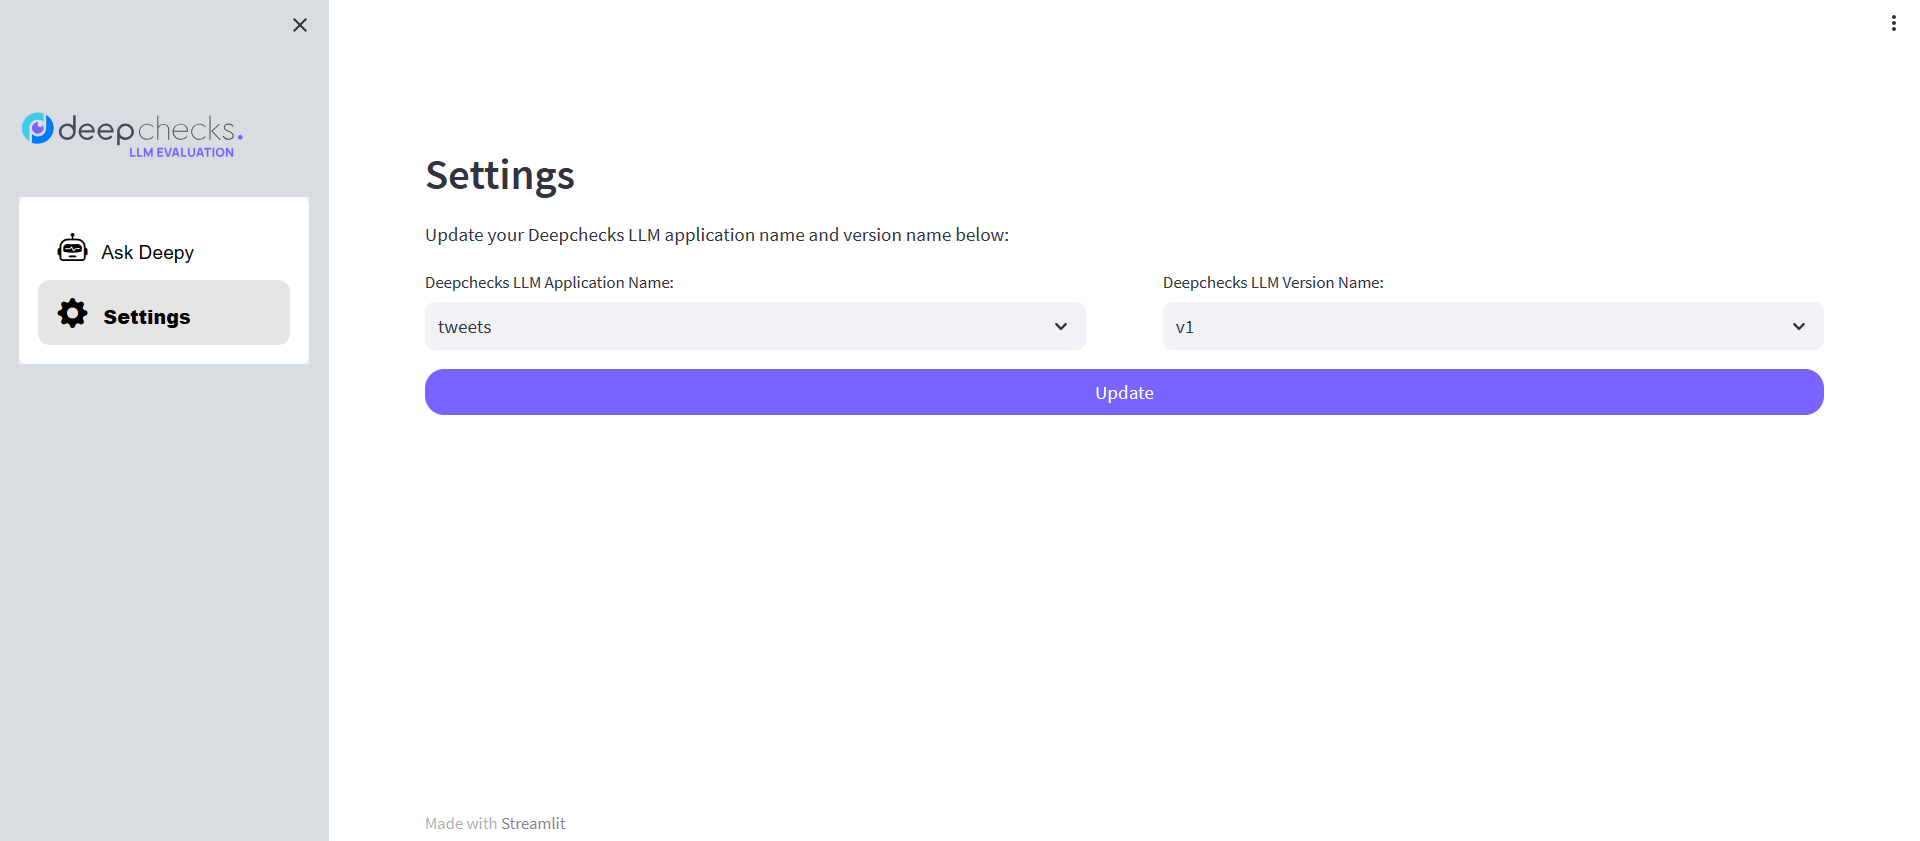
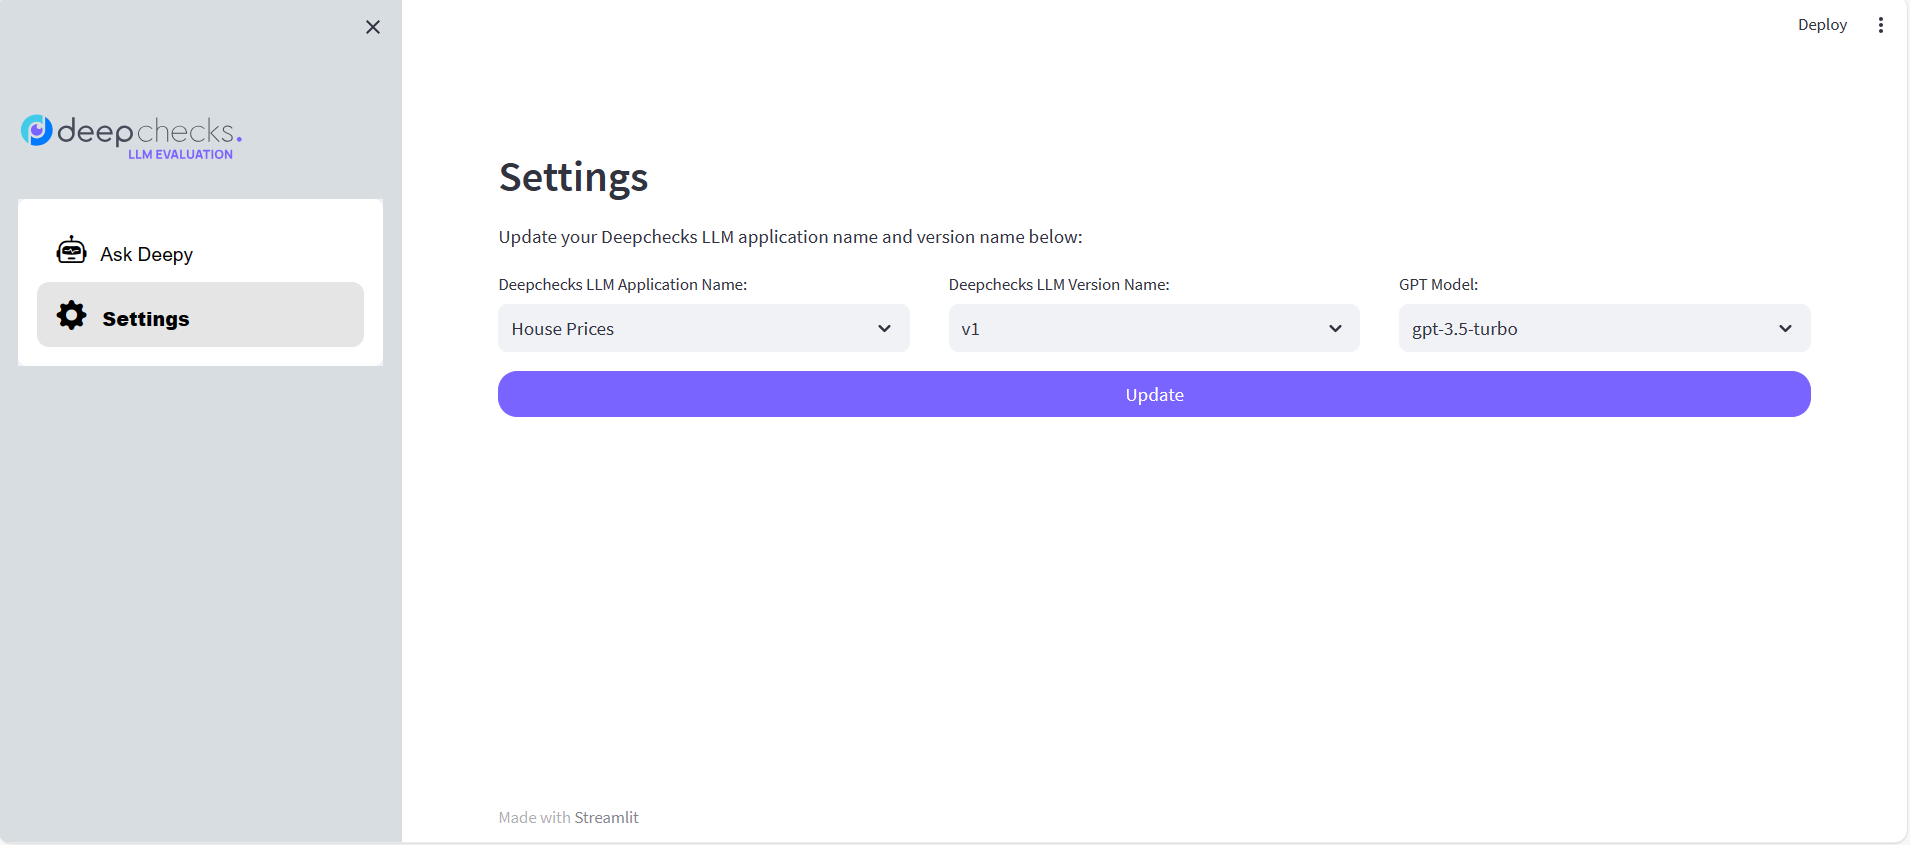
Fixes and added Readme

diff --git a/main.py b/main.py
@@ -5,11 +5,7 @@ from utils.general_utils import initialize_app, initialize_deepchecks_client, in
 from menu.deepy import create_ask_deepy_bot
 from menu.settings import create_settings
 from utils.api_call import fetch_application_names_with_versions
-import logging, coloredlogs
 
-
-logging.basicConfig(filename='./logs.txt', filemode='w', level=logging.DEBUG, force=True)
-coloredlogs.install(level='DEBUG')
 
 # Render the sidebar on the UI and add the styling to various components
 initialize_app()
@@ -23,12 +19,12 @@ deepchecks_llm_app_name = config['DEEPCHECKS_LLM_APP_NAME']
 deepchecks_llm_version_name = config['DEEPCHECKS_LLM_APP_VERSION_NAME']
 response = fetch_application_names_with_versions(config)
 
+if response['status_code'] != 200:
+    st.error({'status_code': response['status_code'], 'text': response['text'], 'solution': 'Make sure that your API keys are correct.'})
 
-if (deepchecks_llm_app_name not in list(response['application_details'].keys()) or deepchecks_llm_version_name not in response['application_details'][deepchecks_llm_app_name]) and st.session_state.current_page != 'Settings':
+elif (deepchecks_llm_app_name not in list(response['application_details'].keys()) or deepchecks_llm_version_name not in response['application_details'][deepchecks_llm_app_name]) and st.session_state.current_page != 'Settings':
     st.title('🦜🔗 Deepy Bot')
     st.error('Your Deepchecks LLM app name and version names are not correct. Please update it from the Settings section.')
-elif response['status_code'] != 200:
-    st.error({'status_code': response['status_code'], 'text': response['text'], 'solution': 'Make sure that your API keys are correct.'})
 else:
     if dc_client.api is None and st.session_state.current_page != 'Settings':
         initialize_deepchecks_client(config)
@@ -37,4 +33,4 @@ else:
         st.session_state.llm_response = ""
         create_settings(config, response['application_details'])
     else:
-        create_ask_deepy_bot()
+        create_ask_deepy_bot(config['GPT_MODEL'])

diff --git a/utils/llm_utils.py b/utils/llm_utils.py
@@ -11,7 +11,6 @@ def fetch_prompts_chatopenai(llm_response):
     second_prompt = text[second_prompt_start_index:  second_prompt_end_index]
     second_prompt_text = second_prompt[second_prompt.find('{"messages": ') + len('{"messages": '): second_prompt.find(', "model":')]
     while '{"role": "function",' not in second_prompt_text:
-        print('not found')
         second_prompt_start_index = text.find("""DEBUG:openai:api_version=None data='{"messages": """, second_prompt_start_index + 1)
         second_prompt_end_index = second_prompt_start_index + text.find(', "model":', second_prompt_start_index)
         second_prompt = text[second_prompt_start_index:  second_prompt_end_index]
@@ -19,18 +18,19 @@ def fetch_prompts_chatopenai(llm_response):
         if second_prompt_end_index > len(text):
             break
 
-    if len(second_prompt_text) > 0:
+    python_script = ''
+    for intermediate_steps in llm_response['intermediate_steps']:
+        if intermediate_steps[0].tool == 'python_repl_ast':
+            python_script = intermediate_steps[0].tool_input
+            break
+
+    if len(second_prompt_text) > 0 and len(python_script) > 0:
         script_result_start_index = second_prompt_text.find('{"role": "function", "content": ') + len('{"role": "function", "content": ')
         script_result_end_index = second_prompt_text.find('", "name": "python_repl_ast"', script_result_start_index)
         script_result_text = second_prompt_text[script_result_start_index + 1: script_result_end_index]
     else:
         script_result_text = ''
 
-    python_script = ''
-    for intermediate_steps in llm_response['intermediate_steps']:
-        if intermediate_steps[0].tool == 'python_repl_ast':
-            python_script = intermediate_steps[0].tool_input
-            break
 
     return {
         'user_input': llm_response['input'],

diff --git a/menu/settings.py b/menu/settings.py
@@ -4,12 +4,13 @@ from utils.general_utils import initialize_deepchecks_client
 import time
 from deepchecks_llm_client.client import dc_client
 
+GPT_MODELS = ['gpt-3.5-turbo', 'gpt-4']
 
 def create_settings(config, application_details):
     st.header('Settings')
     st.markdown("""Update your Deepchecks LLM application name and version name below:""")
     
-    columns = st.columns(2, gap='large')
+    columns = st.columns(3, gap='medium')
     if config['DEEPCHECKS_LLM_APP_NAME'] not in application_details.keys():
         app_names = list(application_details.keys())
     else:
@@ -25,10 +26,17 @@ def create_settings(config, application_details):
     with columns[1]:
         version = st.selectbox('Deepchecks LLM Version Name:', (tuple(app_version)))
 
+    with columns[2]:
+        if config['GPT_MODEL'] in GPT_MODELS:
+            gpt_models = [config['GPT_MODEL'], *[model for model in GPT_MODELS if model != config['GPT_MODEL']]]
+        else:
+            gpt_models = GPT_MODELS 
+        gpt_model_name = st.selectbox('GPT Model:', (tuple(gpt_models)))
+
     submit_button = st.button('Update', use_container_width=True)
     if submit_button:
         with st.spinner('Updating the app name and version'):
-            update_config(app_name, version)
+            update_config(app_name, version, gpt_model_name)
             if dc_client.api is None:
                 config['DEEPCHECKS_LLM_APP_NAME'] = app_name
                 config['DEEPCHECKS_LLM_APP_VERSION_NAME'] = version

diff --git a/menu/deepy.py b/menu/deepy.py
@@ -2,12 +2,12 @@ import streamlit as st
 import uuid
 from llm import call_llm_with_chatopenai
 from deepchecks_llm_client.api import AnnotationType
-from deepchecks_llm_client.client import dc_client, Tag
+from deepchecks_llm_client.client import dc_client
 import pandas as pd
 import logging
 
 
-def create_ask_deepy_bot():
+def create_ask_deepy_bot(gpt_model_name):
     logging.basicConfig(level=logging.DEBUG)
 
     st.title('🦜🔗 Deepy Bot')
@@ -26,7 +26,7 @@ def create_ask_deepy_bot():
             
             if submit_button:
                 with st.spinner('Loading result...'):
-                    result = call_llm_with_chatopenai(st.session_state.dataset, user_input)
+                    result = call_llm_with_chatopenai(st.session_state.dataset, user_input, gpt_model_name)
                     st.session_state.ext_interaction_id = str(uuid.uuid4())
                     # dc_client.set_tags({Tag.USER_ID: "user@deepchecks.com"})  - Removed so there will be no "Raw Data" in samples page
                     dc_client.log_interaction(user_input=result['user_input'],

diff --git a/llm.py b/llm.py
@@ -2,10 +2,14 @@ from langchain.agents import create_pandas_dataframe_agent
 from langchain.chat_models import ChatOpenAI
 from langchain.agents.agent_types import AgentType
 from utils.llm_utils import fetch_prompts_chatopenai
+import logging, coloredlogs
 
-def call_llm_with_chatopenai(df, user_input):
+logging.basicConfig(filename='./logs.txt', filemode='w', level=logging.DEBUG, force=True)
+coloredlogs.install(level='DEBUG')
+
+def call_llm_with_chatopenai(df, user_input, gpt_model_name):
     open("./logs.txt", "w", encoding='utf-8').close()
-    llm = ChatOpenAI(temperature=0, model="gpt-3.5-turbo")
+    llm = ChatOpenAI(temperature=0, model=gpt_model_name)
     agent_executor_kwargs = { "handle_parsing_errors": True }
     agent = create_pandas_dataframe_agent(llm, df, return_intermediate_steps=True, agent_executor_kwargs=agent_executor_kwargs, 
                         max_iterations=5,agent_type=AgentType.OPENAI_FUNCTIONS, verbose=True)

diff --git a/utils/config.py b/utils/config.py
@@ -22,13 +22,17 @@ def load_config():
     cp.read('./config.ini')
     config['DEEPCHECKS_LLM_APP_NAME'] = cp.get('DEEPCHECKS_LLM_APP', 'DEEPCHECKS_LLM_APP_NAME')
     config['DEEPCHECKS_LLM_APP_VERSION_NAME'] = cp.get('DEEPCHECKS_LLM_APP','DEEPCHECKS_LLM_APP_VERSION_NAME')
+    config['GPT_MODEL'] = cp.get('DEEPCHECKS_LLM_APP','GPT_MODEL')
+
     return config
 
-def update_config(app_name, app_version):
+def update_config(app_name, app_version, gpt_model):
     # Write the updated environment variables to the .env file
     cp = ConfigParser()
     cp.read('./config.ini')
     cp.set('DEEPCHECKS_LLM_APP', 'DEEPCHECKS_LLM_APP_NAME', app_name)
     cp.set('DEEPCHECKS_LLM_APP', 'DEEPCHECKS_LLM_APP_VERSION_NAME', app_version)
+    cp.set('DEEPCHECKS_LLM_APP', 'GPT_MODEL', gpt_model)
+
     with open('config.ini', 'w') as configfile:
         cp.write(configfile)

diff --git a/utils/api_call.py b/utils/api_call.py
@@ -20,7 +20,10 @@ def fetch_application_names_with_versions(config):
     headers = {'Authorization': f'Basic {config["DEEPCHECKS_LLM_API_KEY"]}'}
     response = req.get(f'{config["DEEPCHECKS_LLM_HOST_URL"]}api/v1/applications', headers=headers)
     if response.status_code != 200:
-        return response.status_code, response.text, {}
+        return {
+            'status_code': response.status_code,
+            'text': response.text
+            }
 
     json_response = response.json()
     if st.session_state.application_details:

diff --git a/README.md b/README.md
@@ -1,12 +1,100 @@
 # CSV Question Answering
 
-This module shows how we benchmark question answering over CSV data.
-There are several components:
+<img src="./assets/deepchecks_llm_app.svg">
 
-## Setup
+🤖 Integrate your Agent-based LLM application with Deepchecks LLM Evaluation using Deepchecks LLM SDK 🤖
 
-To setup, you should install all required packages:
+- [App description](#app-description)
+- [Environment Setup](#environment-setup)
+- [How to use Deepchecks LLM SDK?](#how-to-use-deepchecks-llm-sdk)
+  - [Instantiate Deepchecks LLM SDK client](#instantiate-deepchecks-llm-sdk-client)
+  - [Process the user queries in real time](#process-the-user-queries-in-real-time)
+- [Deploy the app to Streamlit](#deploy-the-app-to-streamlit)
+
+
+## Environment Setup
+
+The application works on Windows, Linux, and Mac. In order to set up your environment, you can create a virtual environment and install all requirements:
 
 ```shell
+python -m venv venv
+source venv/bin/activate
 pip install -r requirements.txt
 ```
+
+Then rename the `.env.example` file to `.env` and update the following keys as follows:
+
+```python
+# Get the OpenAI API key
+OPENAI_API_KEY='<OPENAI_API_KEY>'
+# Login to deepchecks' service and generate new API Key (Configuration -> API Key) and place it here
+DEEPCHECKS_LLM_API_KEY='<DEEPCHECKS_LLM_API_KEY>'
+# Fill deepchecks host name here
+DEEPCHECKS_LLM_HOST_URL='<DEEPCHECKS_LLM_HOST_URL>'
+```
+
+Now, you are ready to start the streamlit app locally by running the following command:
+```python
+streamlit run main.py
+```
+
+After running the application, if your Deepchecks LLM application name and version name does not match with the names on the Deepchecks LLM app, you need to update the Deepchecks LLM application name and version name from the UI by going to the **Settings** section as shown in the below image:
+
+<img src="./assets/settings-section.png">
+
+You can also update the GPT model from the **Settings** section. By default, the GPT model is selected to *"gpt-3.5-turbo"*.
+# App description
+This application utilizes [Langchain's Notion Question-Answering Language Model (LLM)](https://github.com/hwchase17/notion-qa), which has been trained on documents from a company named Blendle. This demo application will help you understand how Deepchecks LLM SDK traces OpenAI requests and stores the required information in Deepchecks LLM web application. We have used the `RetrievalQAWithSourcesChain` from `langchain` which helps to send the user query to our LLM (in this case, its OpenAI) and then provide us with a response and the source of the response. To find the relevant documents from Notion based on the user input, we use `faiss` indexing based strategy. The LLM can answer most of the HR related questions an employee may ask. Some of the examples of user questions and their response are shown below:
+
+> **User Input:** Where is the company located?<br>
+  **LLM Response:** The company is located in Utrecht, Netherlands.
+
+> **User Input:** Process for claiming telephone reimbursement?<br>
+  **LLM Response:** To claim telephone reimbursement, employees need to log in to their NMBRS account and click on "Expenses Declaration" to submit their claim. The claim will be forwarded to finance and paid out together with the next salary. Employees can also use the NMBRS app to submit their claim. The reimbursement is provided on a monthly basis along with the paycheck. Any employee of Blendle with a contract is eligible for reimbursement, regardless of the number of hours or the type of contract. The process for claiming reimbursement for travel expenses is to take a picture of the receipt, add the expense and receipt to Nmbrs (salarisbalie), have it approved by the manager, and get paid back in the monthly payroll run. For specific questions, employees can contact finance@blendle.com.
+
+
+# How to use Deepchecks LLM SDK?
+Before proceeding, make sure that you have an app created in the Deepchecks LLM evaluation application. We will not use the auto collect feature of the SDK here since there can be multiple LLM calls depending upon your agent pipeline. So we will be using the logging each interaction using the `log_interaction()` function provided by the SDK.
+
+## Instantiate Deepchecks LLM SDK client
+
+```python
+from deepchecks_llm_client.client import dc_client
+
+dc_client.init(host=DEEPCHECKS_LLM_HOST_URL,
+               api_token=DEEPCHECKS_LLM_API_KEY,
+               app_name=DEEPCHECKS_LLM_APP_NAME,
+               version_name=DEEPCHECKS_LLM_APP_VERSION_NAME,
+               env_type=EnvType.PROD,
+               auto_collect=False  # Setting auto collect to False
+               )
+```
+
+## Process the user queries in real time
+
+```python
+
+result = call_llm_with_chatopenai(st.session_state.dataset, user_input)
+
+dc_client.log_interaction(user_input=result['user_input'],
+                          model_response=result['response'],
+                          full_prompt=result['llm_prompt'],
+                          information_retrieval=str(result['information_retrieval']),
+                          ext_interaction_id=user_generated_unique_key)
+
+```
+
+## Annotate the LLM response
+
+```python
+from deepchecks_llm_client.api import AnnotationType
+
+# If you want to annotate the LLM response as 'Good'
+dc_client.annotate(ext_interaction_id=user_generated_unique_key, annotation=AnnotationType.GOOD)
+
+# If you want to annotate the LLM response as 'Bad'
+dc_client.annotate(ext_interaction_id=user_generated_unique_key, annotation=AnnotationType.GOOD)
+```
+
+# Deploy the app to Streamlit
+The code to run the StreamLit app is in `main.py`. Note that when setting up your StreamLit app you should make sure to add all the environment variables in your `.env` file as a secret environment variable as Secrets in Settings of your deployed Streamlit app.
